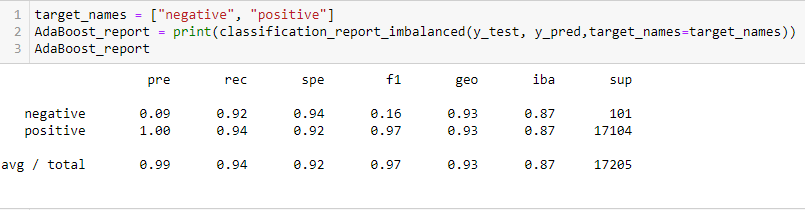
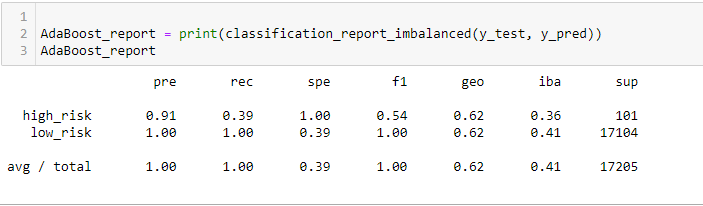
mod 17 readme finished

diff --git a/README.md b/README.md
@@ -5,28 +5,17 @@ Overview of the analysis:
 
 Credit risk is an inherently unbalanced classification problem, as good loans easily outnumber risky loans. Therefore, you’ll need to employ different techniques to train and evaluate models with unbalanced classes. Using the credit card credit dataset from LendingClub, a peer-to-peer lending services company.
 
-I have analysed the data converted into a dataframe from csv file using pandas jupyter notebook ,I have used the following machine learning libraries “RandomOverSampler” “SMOTE” ,SMOTEENN algorithms,“ClusterCentroids”,BalancedRandomForestClassifier ,EasyEnsembleClassifier algorithm to performe Oversampling ,under sampling,and combination sampling of the data. 
-
-Random resampling provides a naive technique for rebalancing the class distribution for an imbalanced dataset.
-Random oversampling duplicates examples from the minority class in the training dataset and can result in overfitting for some models.
-Random undersampling deletes examples from the majority class and can result in losing information invaluable to a model.
+I have analysed the data converted into a dataframe from csv file using pandas jupyter notebook ,I have used the following machine learning libraries “RandomOverSampler”, “SMOTE”,SMOTEENN algorithms,“ClusterCentroids”,BalancedRandomForestClassifier ,EasyEnsembleClassifier algorithm to perform Oversampling ,under sampling,and combination sampling of the data. 
 
 Results: 
  
-Methods used:
+Accuracy is the number of correct predictions over the output size. It is an incredibly straightforward measurement, However it does not show a full picture.Precision talks about how precise/accurate your model is out of those predicted positive, how many of them are actual positive.Recall actually calculates how many of the Actual Positives our model capture through labeling it as Positive (True Positive)
 
-Precision – Accuracy of positive predictions. Precision tells us how many of the correctly predicted cases actually turned out to be a good call. Example if the model predicted a low-risk loan and truly it is a low-risk loan and we granted the loan, the customer pays back regularly without any delay or default, then we took the right decision based on the model.
+F1 Score might be a better measure to use if we need to seek a balance between Precision and Recall and there is an uneven class distribution, In our analysis F1 score closer to one will be ideal. as we want to reduce mislabeling low risk customers as highrisk and viseversa.
 
-Recall tells us what percent of the positive cases did you catch? F1 score tells us what percent of positive predictions were correct. F1-score is a harmonic mean of Precision and Recall, and so it gives a combined idea about these two metrics. It is maximum when Precision is equal to Recall.
+1.In the first 4 models (Random Oversampling, SMOTE, under sampling & combination) the accuracy score is 0.62 and the F1 score for low risk is 0.70 ,f1 score for high risk is 0.02, we want the model to predict the high risk loans with more accuracy as well, Both are not very high so I could not recommend these models.
 
-A Classification report is used to measure the quality of predictions from a classification algorithm. How many predictions are True and how many are False? More specifically, True Positives, False Positives, True negatives and False Negatives are used to predict the metrics of a classification report as shown below.
-
-From the images below , 
-
-1.The balanced accuracy scores
-
-2.The precision, recall and F1 scores
-
+2.In our analysis F1 score is important, because F1-score is used when the False Negatives and False Positives are crucial. we do not want our model to have high false negatives and False positives , For example we are trying to predict risk if we grant loan to certain customers we dont want to reject a loan for a customer who have no credit risk. The accuracy of adaboost model is 0.93 , However the f1 score for high risk is only 0.50 ,adaboost shows a f1 score of 1 for low risk cases this model is better than the rest of the models ,however not ideal.
 
 ![Image from analysis](Resources/acc1.PNG)
 
@@ -55,8 +44,6 @@ From the images below ,
 
 Summary: 
 
-all models will generate some false negatives, some false positives, and possibly both. While you can tune a model to minimize one or the other, you often face a tradeoff, where a decrease in false negatives leads to an increase in false positives, or vice versa. You’ll need to optimize for the performance metrics that are most useful for your specific problem.A good F1 score means that you have low false positives and low false negatives, so you’re correctly identifying real threats and you are not disturbed by false alarms.An F1 score is considered perfect when it’s 1 or closer to 1.
+All models will generate some false negatives, some false positives, and possibly both. While you can tune a model to minimize one or the other, you often face a tradeoff, where a decrease in false negatives leads to an increase in false positives, or vice versa. You’ll need to optimize for the performance metrics that are most useful for your specific problem.A good F1 score means that you have low false positives and low false negatives, so you’re correctly identifying real threats and you are not disturbed by false alarms.An F1 score is considered perfect when it’s 1 or closer to 1.
 
-For the ensemble classifiers, the easy ensemble adaboost performed better than the balanced random forest classifier with an accuracy score of 0.93 and an F1 score of 0.16. The balanced random forest has an accuracy score of 0.75 and an F1 score of 0.05, making adaboost the obvious winner.
-
-Summarize the results of the machine learning models, and include a recommendation on the model to use, if any. If you do not recommend any of the models, justify your reasoning.
+My recommendation to improve the adaboost model is resampling and try to improve the f1 score with a more balanced data.Random resampling provides a naive technique for rebalancing the class distribution for an imbalanced dataset.
